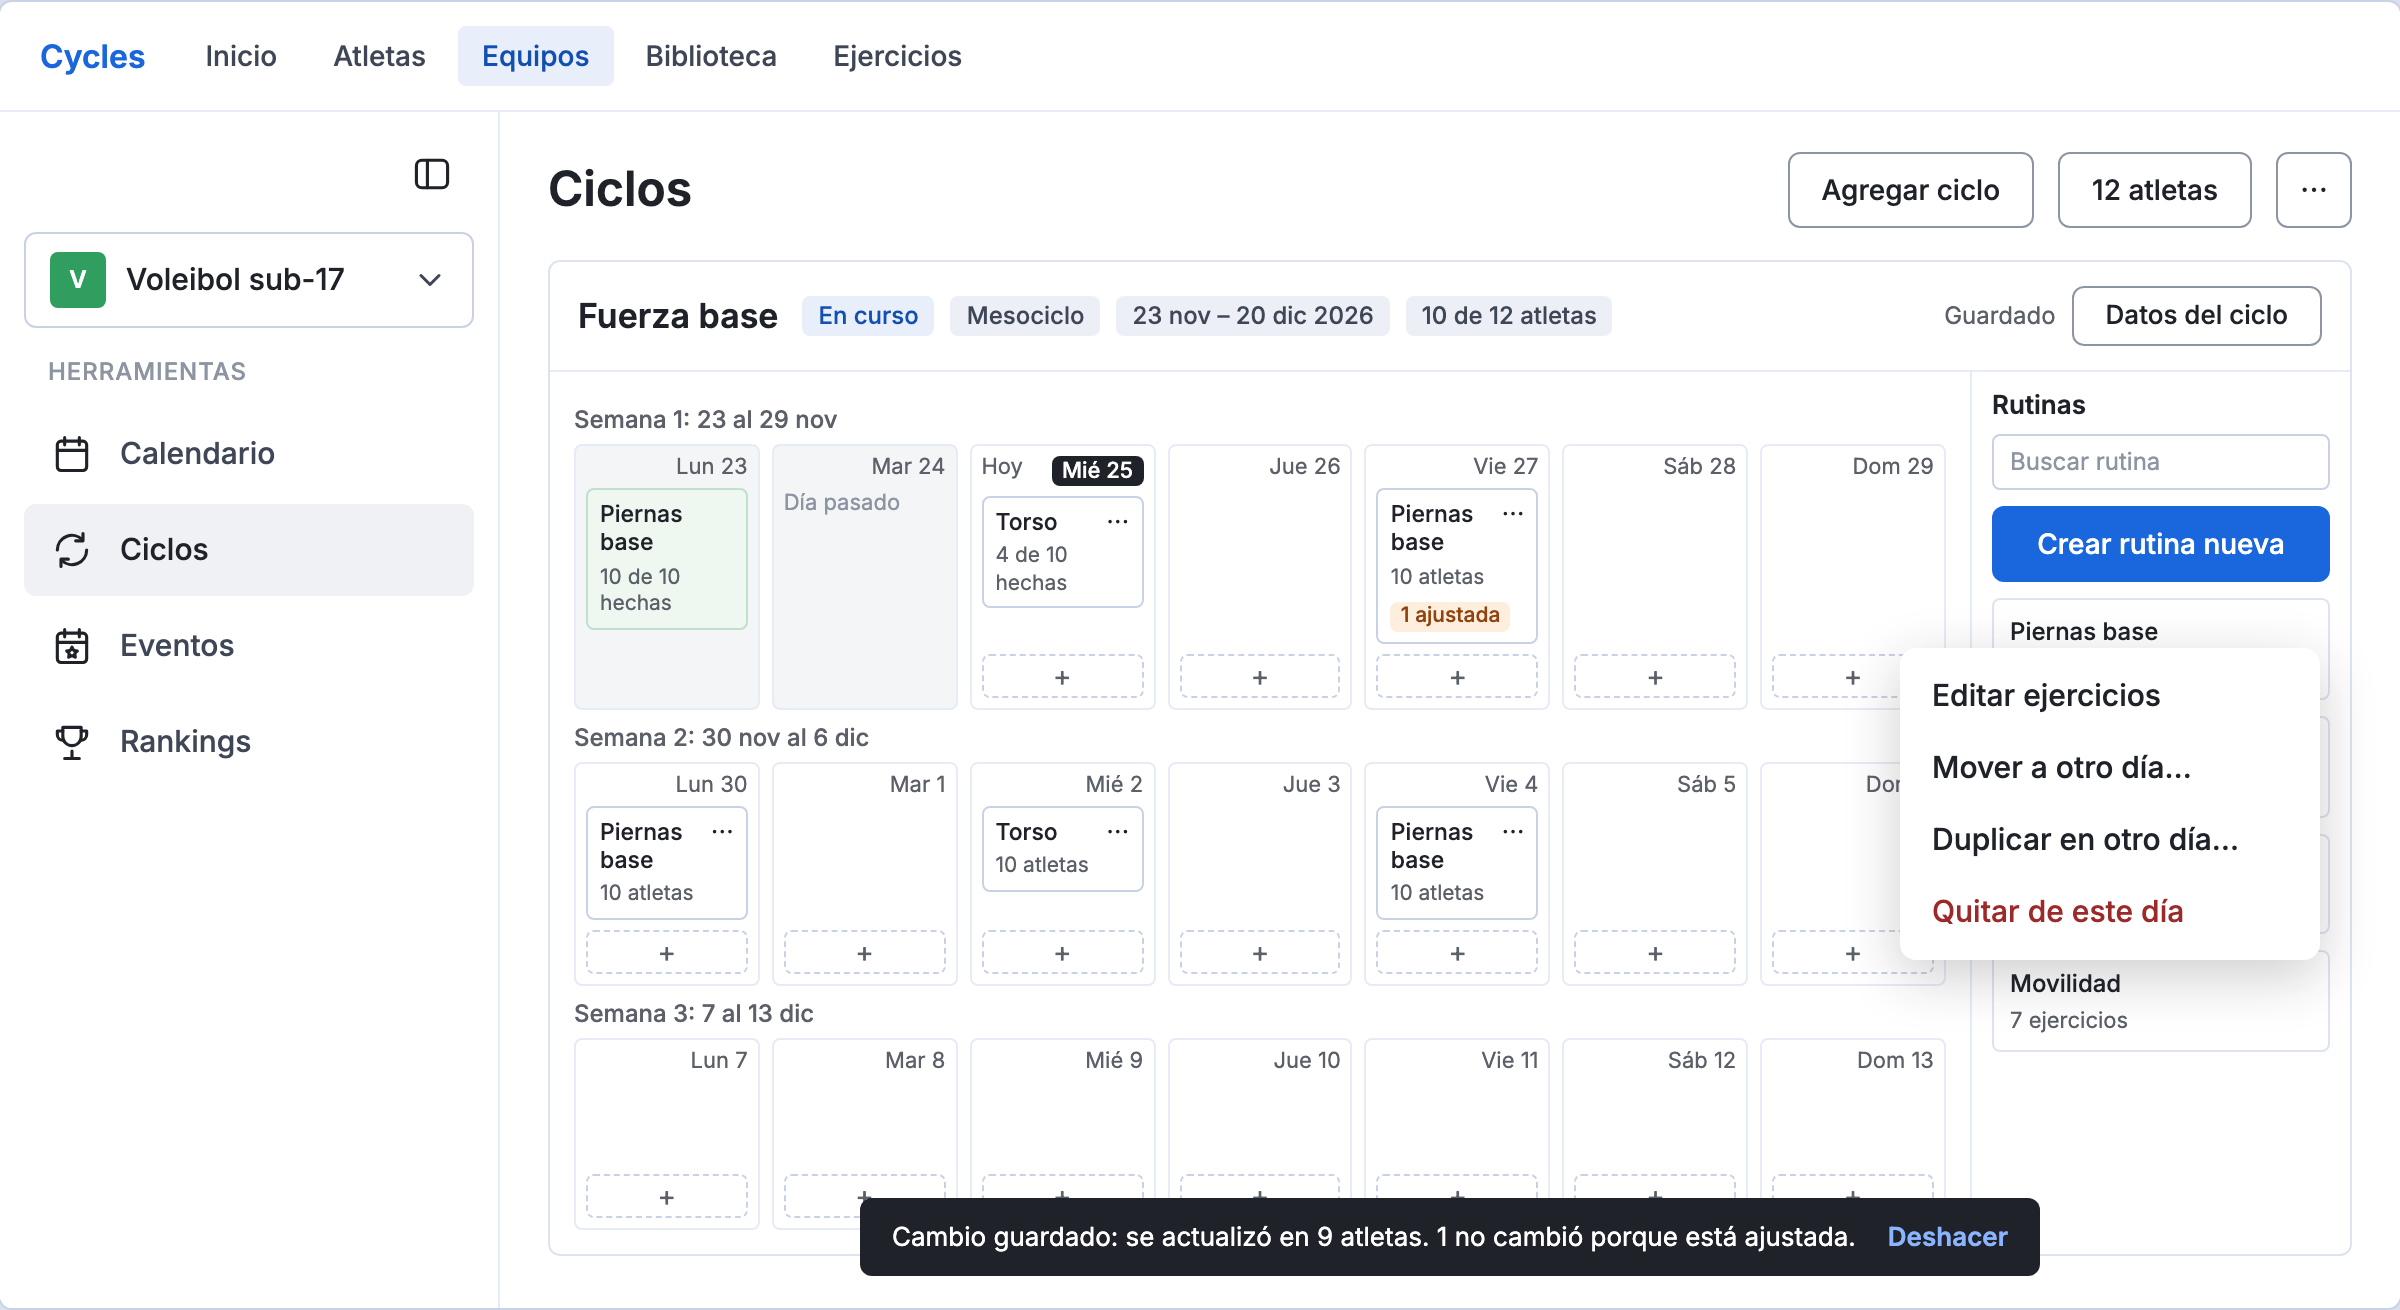
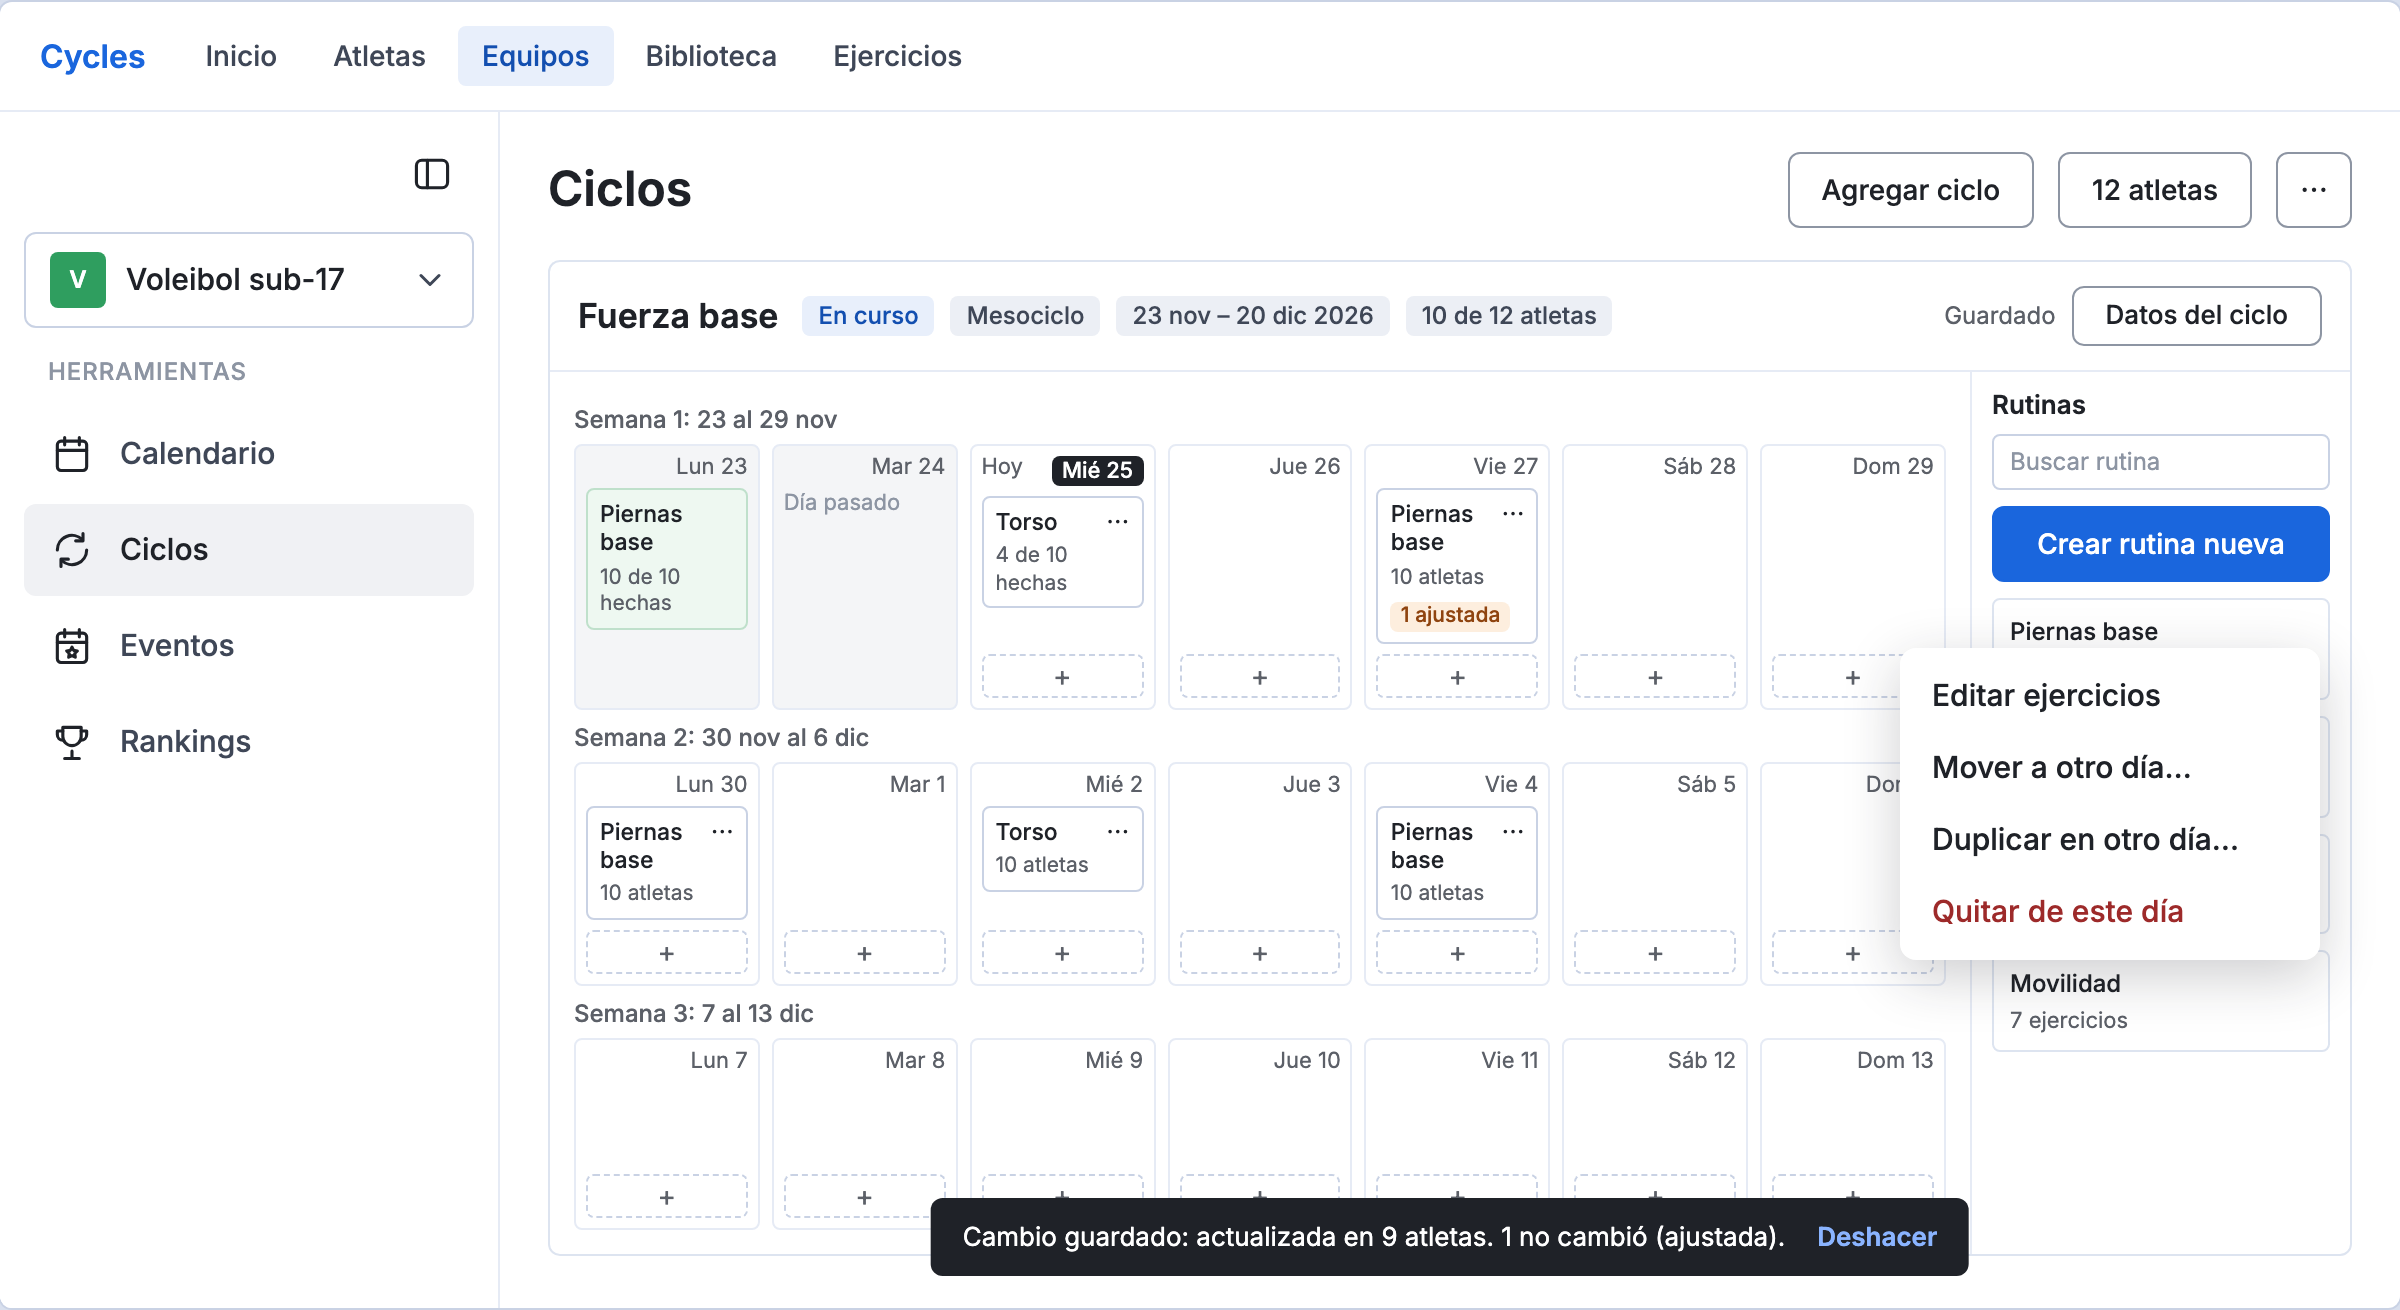
Ciclo del equipo: restricciones del modelo y decisiones por confirmar (CYC-316)

Changed region(s): [[0.3438, 0.916, 0.6875, 0.9771], [0.7188, 0.916, 0.875, 0.9771]]

diff --git a/docs/diseno/ciclo-del-equipo/propuestas.html b/docs/diseno/ciclo-del-equipo/propuestas.html
@@ -749,7 +749,7 @@ function pizarra(){
  return CQ(side('Ciclos'),board(note('Es la misma pizarra del ciclo de un atleta: arrastra una rutina a un día o usa «+». Cada gesto se guarda solo y llega a los integrantes. Lo registrado no cambia.')));
 }
 function menuMover(){
- const menu=`<div class="t3dd" style="left:700px;right:auto;top:268px;width:210px"><div class="o"><span>Editar ejercicios</span></div><div class="o"><span>Mover a otro día…</span></div><div class="o"><span>Duplicar en otro día…</span></div><div class="o" style="color:#9d2a2a"><span>Quitar de este día</span></div></div><div class="cq-toast"><span>Cambio guardado: se actualizó en 9 atletas. 1 no cambió porque está ajustada.</span><u>Deshacer</u></div>`;
+ const menu=`<div class="t3dd" style="left:700px;right:auto;top:268px;width:210px"><div class="o"><span>Editar ejercicios</span></div><div class="o"><span>Mover a otro día…</span></div><div class="o"><span>Duplicar en otro día…</span></div><div class="o" style="color:#9d2a2a"><span>Quitar de este día</span></div></div><div class="cq-toast"><span>Cambio guardado: actualizada en 9 atletas. 1 no cambió (ajustada).</span><u>Deshacer</u></div>`;
  return CQ(side('Ciclos'),board(menu));
 }
 function editarEquipo(){
@@ -761,7 +761,7 @@ function editarEquipo(){
 }
 function ventanaAtleta(){
  const ex=(n,s,r,k)=>`<div class="cq-ex"><span>${n}</span><span class="v">${s}</span><span class="v">${r}</span><span class="v">${k}</span></div>`;
- const main=`<div class="t3mn" style="padding:20px 24px"><div class="t3hd"><h2>Camila Rojas</h2></div><div class="cq-cyc"><div class="cq-ch"><b>Fuerza base</b><span class="cq-pill bl">En curso</span><span class="cq-pill bl">Ciclo de Voleibol sub-17</span></div><div class="cq-cal">${wk('Semana 1: 23 al 29 nov',[day('Lun 23',ses('Piernas base','Hecha','<span class="cq-pill bl">Del equipo</span>','done'),{past:true}),day('Mar 24','',{past:true}),day('Mié 25',ses('Torso','5 ejercicios','<span class="cq-pill bl">Del equipo</span>'),{today:true}),day('Jue 26'),day('Vie 27',ses('Piernas base','5 ejercicios','<span class="cq-pill am">Ajustada</span>')),day('Sáb 28'),day('Dom 29')])}</div></div></div>`;
+ const main=`<div class="t3mn" style="padding:20px 24px"><div class="t3hd"><h2>Camila Rojas</h2></div><div class="cq-cyc"><div class="cq-ch"><b>Fuerza base</b><span class="cq-pill bl">En curso</span><span class="cq-pill bl">Ciclo de Voleibol sub-17</span></div><div class="cq-cal">${wk('Semana 1: 23 al 29 nov',[day('Lun 23',ses('Piernas base','Hecha','<span class="cq-pill ok">Registrada</span>','done'),{past:true}),day('Mar 24','',{past:true}),day('Mié 25',ses('Torso','5 ejercicios','<span class="cq-pill bl">Del equipo</span>'),{today:true}),day('Jue 26'),day('Vie 27',ses('Piernas base','5 ejercicios','<span class="cq-pill am">Ajustada</span>')),day('Sáb 28'),day('Dom 29')])}</div></div></div>`;
  const over=scrim(560,`<h3>Piernas base de Camila, viernes 27 nov</h3>
  <div class="cq-warn">Este cambio es solo para Camila. La planificación del equipo no cambia, y esta sesión deja de recibir los cambios del equipo.</div>
  <div class="cq-ex h"><span>Ejercicio</span><span>Series</span><span>Reps</span><span>Carga</span></div>${ex('Sentadilla',3,6,'60 %')}${ex('Peso muerto',3,5,'60 %')}
@@ -792,12 +792,18 @@ function eliminarEquipo(){
  <ul class="cq-li"><li>Se quitan <b style="font-weight:600">29 sesiones futuras</b>.</li><li>Conservan lo que ya registraron.</li><li>Conservan la sesión ajustada.</li></ul>
  <div class="cq-acts"><span class="t3btn pr" style="background:#b3261e;border-color:#b3261e">Eliminar equipo</span><span class="t3btn">Cancelar</span></div>`));
 }
+function chocaEquipo(){
+ return CQ(side('Ciclos'),board(),scrim(520,`<h3>Nuevo ciclo para Voleibol sub-17</h3>
+ <div class="cq-warn" role="alert">El equipo ya tiene «Fuerza base» del 23 nov al 20 dic. Elige otras fechas: por ahora el equipo tiene un solo ciclo a la vez.</div>
+ ${fl('Nombre','Preparación liga')}<div class="cq-2">${fl('Fecha de inicio','7 dic 2026')}${fl('Duración','4 semanas')}</div>
+ <div class="cq-acts" style="justify-content:flex-end"><span class="t3btn">Cancelar</span><span class="t3btn pr" style="opacity:.45">Continuar</span></div>`));
+}
 function novedad(){
  return `<div class="web t3" style="min-height:420px;background:#cfd8ea;display:grid;place-items:center"><div style="width:440px;background:#fff;border-radius:8px;overflow:hidden;box-shadow:0 10px 40px rgba(31,34,40,.3)"><div style="height:170px;background:#f3f6fc;display:flex;align-items:center;justify-content:center;gap:14px"><div style="width:110px">${ses('Piernas base','Equipo')}</div><span style="font:500 24px/1 Inter;color:#1a66dd">→</span><div style="display:flex">${ATH.slice(0,4).map(a=>`<div style="margin-left:-4px">${AVb(a[0])}</div>`).join('')}</div></div><div style="padding:18px 22px 20px"><div style="font:600 20px/1.25 Inter;margin-bottom:8px">Planifica el ciclo de tu equipo</div><div style="font:400 15px/1.45 Inter;color:#3f4757;margin-bottom:16px">Pon las sesiones una vez en el calendario del equipo y llegan a cada integrante.</div><div style="display:flex;justify-content:flex-end"><span class="t3btn pr">Entendido</span></div></div></div></div>`;
 }
 const out=document.getElementById('out');
 const add=(id,label,items)=>out.insertAdjacentHTML('beforeend',`<div class="lab">${label}</div><div class="row" id="${id}">${items.map(([c,h])=>`<div class="fr">${h}<div class="cap">${c}</div></div>`).join('')}</div>`);
-add('r1','1 · Crear el ciclo del equipo',[['Equipo sin ciclo',vacio()],['Paso 1: los mismos datos de un ciclo nuevo',datos()],['Paso 2: quién lo recibe, con aviso de ciclos propios',quien()]]);
+add('r1','1 · Crear el ciclo del equipo',[['Equipo sin ciclo',vacio()],['Paso 1: los mismos datos de un ciclo nuevo',datos()],['Paso 2: quién lo recibe, con aviso de ciclos propios',quien()],['Error: ya hay un ciclo del equipo en esas fechas (por confirmar)',chocaEquipo()]]);
 add('r2','2 · Calendario del ciclo del equipo',[['La pizarra de siempre, para todo el equipo',pizarra()],['Menú de una sesión y aviso con Deshacer',menuMover()],['Quién lo recibe',integrantes()]]);
 add('r3','3 · Cambios',[['Editar la sesión del equipo: llega a los integrantes',editarEquipo()],['Editar desde la ficha de un atleta: solo su sesión',ventanaAtleta()]]);
 add('r4','4 · Entrar y salir del equipo',[['Al agregar un atleta se pregunta',entra()],['Al quitarlo, se avisa antes',sale()],['Al eliminar el equipo, también (propuesta)',eliminarEquipo()]]);

diff --git a/docs/diseno/ciclo-del-equipo/README.md b/docs/diseno/ciclo-del-equipo/README.md
@@ -12,9 +12,17 @@ El botón «Agregar ciclo» de Equipos → Ciclos crea un ciclo para el equipo, 
 
 ## Por confirmar con la usuaria
 
-- Una sesión ajustada en la ficha del atleta queda separada: deja de recibir los cambios del equipo (las demás siguen vinculadas).
-- Las sesiones ya registradas nunca cambian.
-- Eliminar un equipo con ciclo en curso trata a cada integrante igual que sacarlo del equipo (propuesta de diseño).
+Nada de esta lista está aprobado; las maquetas lo muestran como propuesta.
+
+1. Una sesión ajustada en la ficha del atleta queda separada y deja de recibir los cambios del equipo.
+2. Las sesiones ya registradas nunca cambian.
+3. Un cambio del equipo llega solo a copias enlazadas, sin ajustar, pendientes, sin empezar y de hoy en adelante.
+4. Con invitación pendiente no se puede crear el ciclo: aparece deshabilitado y se suma a mano cuando acepte.
+5. En la primera versión el equipo tiene un solo ciclo por fechas (hay estado de error).
+6. Eliminar el equipo o su ciclo sigue la misma regla que sacar a un atleta, con aviso y cifras.
+7. Con ciclo propio y del equipo, «Hoy» del atleta muestra la sesión de hoy y, si no hay, la más cercana en fecha (propuesta de Desarrollo; falta diseñar cómo se distinguen).
+
+La propuesta técnica de Desarrollo general, con su diagrama, está en el comentario de CYC-314.
 
 ## Pantallas
 
@@ -23,6 +31,7 @@ El botón «Agregar ciclo» de Equipos → Ciclos crea un ciclo para el equipo, 
 | Equipo sin ciclo | `equipo-sin-ciclo` |
 | Nuevo ciclo: nombre, objetivo, tipo, inicio y duración | `nuevo-ciclo-datos` |
 | Quién lo recibe, con aviso de ciclos propios | `nuevo-ciclo-quien-recibe` |
+| Fechas ocupadas por otro ciclo del equipo | `nuevo-ciclo-fechas-ocupadas` |
 | Pizarra del equipo | `pizarra-del-equipo` |
 | Menú de sesión y resumen tras guardar | `menu-de-sesion` |
 | Quién lo recibe y qué tiene de distinto | `quien-lo-recibe` |
@@ -39,7 +48,8 @@ El botón «Agregar ciclo» de Equipos → Ciclos crea un ciclo para el equipo, 
 - **Sin «sesiones por semana»**: el plan del equipo se organiza por fechas.
 - **Cada tarjeta del equipo** dice a cuántos atletas llega; las pasadas, cuántos la hicieron; «N ajustada» cuando hay copias separadas. Esas cifras se calculan con las sesiones de cada atleta, porque el plan del equipo no tiene atleta.
 - **Después de guardar** un cambio se informa a cuántos llegó y cuántos no cambiaron, y por qué.
-- **En la ficha del atleta** la sesión muestra «Del equipo» o «Ajustada», y editarla avisa que el cambio es solo para esa persona.
+- **El plan del equipo no tiene atleta:** no muestra series, RM ni «Sin RM» por persona. El % del RM está siempre disponible y el peso se calcula en la copia de cada atleta; a quien no tiene RM le llega el % sin peso con el aviso «Falta el RM».
+- **En la ficha del atleta** la sesión muestra «Del equipo», «Ajustada» o «Registrada», y editarla avisa que el cambio es solo para esa persona.
 - **Invitación pendiente**: aparece deshabilitada, con la razón.
 - Los avisos de sacar a un atleta o eliminar el equipo dan las cifras de lo que se quita y lo que se conserva.
 - Esquinas casi rectas, sin negritas pesadas ni líneas grises bajo los títulos.
